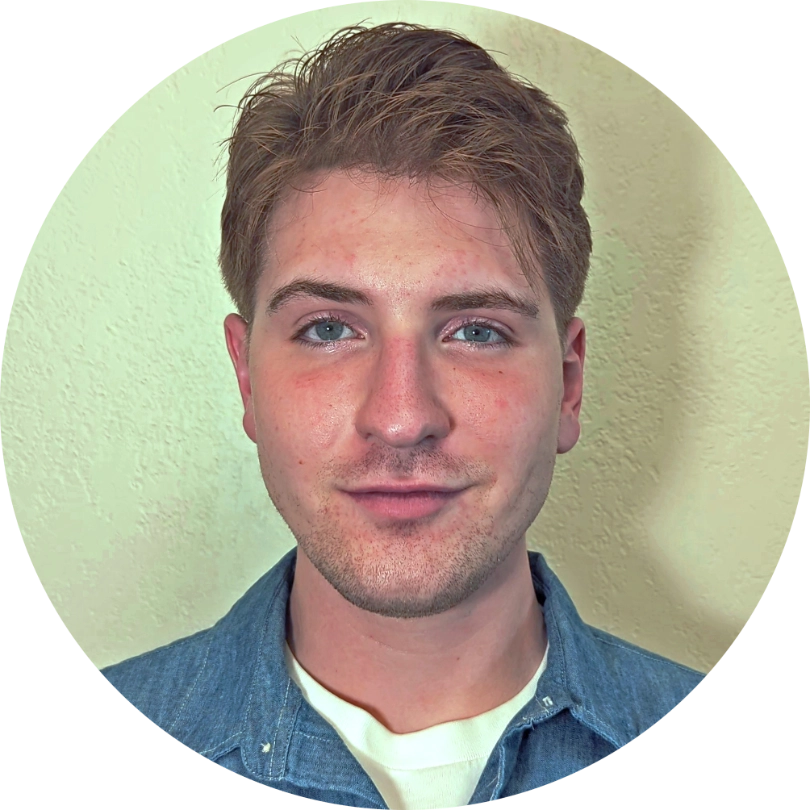
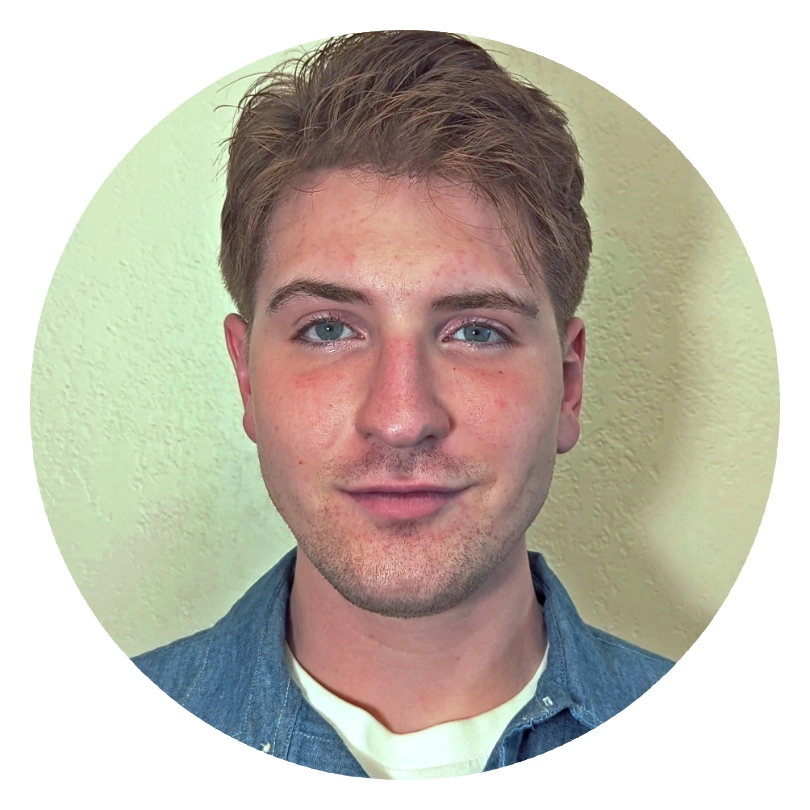
Fixed resume button sizing

Changed region(s): [[0.0, 0.0, 1.0, 1.0]]

diff --git a/css/styles.css b/css/styles.css
@@ -11,6 +11,7 @@
 	--accent: #0391A1; /* Light blue */
 	--accent-light: #04B0C3;
 	--accent-dark: #038291;
+	--accent-complement: #A13003;
 
 	--bg: #EDEDE8; /* Light grey */
 	--bg-light: #EFEFEA;
@@ -20,7 +21,7 @@
 	--unclicked-link-light: #E85A3B;
 	--unclicked-link-dark: #D63C1A;
 
-	--clicked-link: #E54825; /* Brown-grey */
+	--clicked-link: #796c6b; /* Brown-grey */
 	--clicked-link-light: #807161;
 	--clicked-link-dark: #63574B;
 
@@ -30,8 +31,11 @@
 	--resume-btn: var(--accent-light);
 	--resume-btn-shadow: var(--accent-dark);
 
-	--heading-one-color: white;
-	--heading-two-color: var(--primary-complement);
+	--heading-one: white;
+	--heading-two: var(--primary-complement);
+
+	--default-text: black;
+	--default-heading: black;
 }
 
 /********************************************************************
@@ -40,12 +44,12 @@
 @media screen and (max-width: 480px) {
 	
 	p {
-		color: var(--default-text-color);
+		color: var(--default-text);
 		margin: 0;
 	}
 
 	h1 {
-		color: var(--heading-one-color);
+		color: var(--heading-one);
 		font-family:  "Quicksand", sans-serif;
 		font-size: 2em;
 		font-style: normal;
@@ -54,7 +58,7 @@
 	}
 
 	h2 {
-		color: var(--heading-two-color);
+		color: var(--heading-two);
 		font-family:  "Quicksand", sans-serif;
 		font-size: 1.2em;
 		font-style: normal;
@@ -63,7 +67,7 @@
 	}
 
 	h3 {
-		color: var(--default-heading-color);
+		color: var(--default-heading);
 		font-family:  "Quicksand", sans-serif;
 		font-size: 1.5em;
 		font-style: normal;
@@ -83,7 +87,7 @@
 	
 	figure figcaption {
 		align-self: center;
-		color: var(--default-heading-color);
+		color: var(--default-heading);
 		font-family: "Quicksand", sans-serif;
 		font-size: 1em;
 		font-style: italic;
@@ -92,7 +96,7 @@
 	}
 
 	li {
-		color: var(--default-text-color);
+		color: var(--default-text);
 		font-family:  "Quicksand", sans-serif;
 		font-size: 0.9em;
 		font-style: normal;
@@ -303,7 +307,7 @@
 
 				#mobile-portrait-container {
 					align-self: center;
-					justify-content: flex-end;
+					justify-content: right;
 					display: flex;
 					height: 100%;
 					padding-right: var(--border-margin);
@@ -313,8 +317,8 @@
 					#mobile-portrait-img {
 						align-self: center;
 						height: 24vw;
-						max-height: 110px;
-						max-width: 110px;
+						max-height: 90px;
+						max-width: 90px;
 						min-height: 70px;
 						min-width: 70px;
 						width: 24vw;
@@ -332,17 +336,18 @@
 
 					#mobile-portrait-text {
 						align-self: center;
-						color: black;
+						color: var(--bg);
 						display: inline-flex;
 						font-size: 1.25em;
 						padding-left: 4px;
 					}
 
 				#mobile-resume-button-container {
-					align-self: center;
+					align-items: center;
 					display: flex;
 					height: 100%;
 					justify-content: center;
+					padding-left: var(--border-margin);
 					width: 50%;
 				}
 
@@ -359,13 +364,14 @@
 						font-size: 1.25em;
 						font-style: normal;
 						font-weight: 600;
+						height: 75%;
 						justify-content: center;
-						margin: 8px 6px;
 						max-width: 180px;
+						min-width: 148px;
 						padding: 16px 48px;
 						text-align: center;
 						text-decoration: none;
-						transition-duration: 0.5s;
+						width: 100%;
 					}
 
 			#mobile-main-content {
